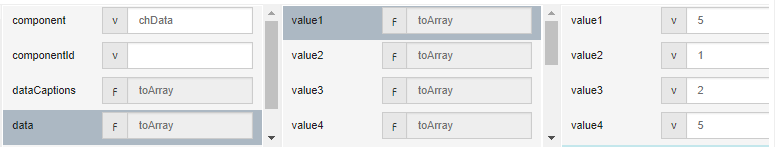
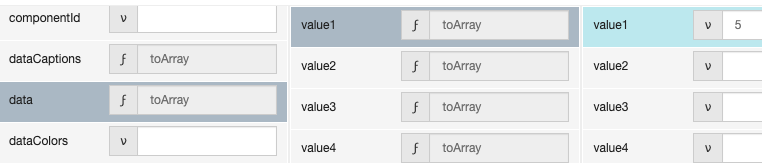
update chartPopulatePieData

diff --git a/document/function/Chart/chartPopulatePieData/chartPopulatePieData.md b/document/function/Chart/chartPopulatePieData/chartPopulatePieData.md
@@ -1,8 +1,8 @@
-# chartPopulatePieData
+# chartPopulatePieData
 
 ### Description
 
-A pie chart is a divided circle, in which each slice of the pie represents a part of the whole.
+A pie chart is a circular statistical graphic which is divided into slices, in which each slice of the pie represents a part of the whole.
 
 ### Flowchart
 
@@ -14,7 +14,7 @@ A pie chart is a divided circle, in which each slice of the pie represents a par
 | ------ | ------ | ------ |------ | ------ |
 | 1 | component | The name of the component that the details will be taken from. | String | Yes |
 | 2 | componentId | The id of the component that the details will be taken from. | String | No |
-| 3 | dataCaptions | dataCaptions | Array | Yes |
+| 3 | dataCaptions | dataCaptions | Array | No |
 | 4 | data | Number | Array | Yes |
 | 5 | dataColors | dataColors | Array | No |
 
@@ -24,7 +24,7 @@ The user wants to create a Pie Chart.
 
 ### Step
 
-1. Call the function "chartPopulatePieData" and define the value            for component, dataCaptions, and data.
+1. Call the function "chartPopulatePieData" and define the value for component, dataCaptions, and data.
    <br>
    <ul>
    <li>component: chData</li>
@@ -46,11 +46,19 @@ The user wants to create a Pie Chart.
                           <li>value1: toArray </li>
                           <ul>
                           <li>value1: 5 </li>
-                          <li>value2: 1 </li>
-                          <li>value3: 2 </li>
-                          <li>value4: 5 </li>
                           </ul>
-                          <li>value2: ...... </li>
+                          <li>value2: toArray </li>
+                          <ul>
+                          <li>value1: 9 </li>
+                          </ul>
+                          <li>value3: toArray </li>
+                          <ul>
+                          <li>value1: 8 </li>
+                          </ul>
+                          <li>value4: toArray </li>
+                          <ul>
+                          <li>value1: 3 </li>
+                          </ul>
                           </ul>
   
    ![](../../../../document/function/Chart/chartPopulatePieData/chartPopulatePieData-step-3.png?raw=true)
